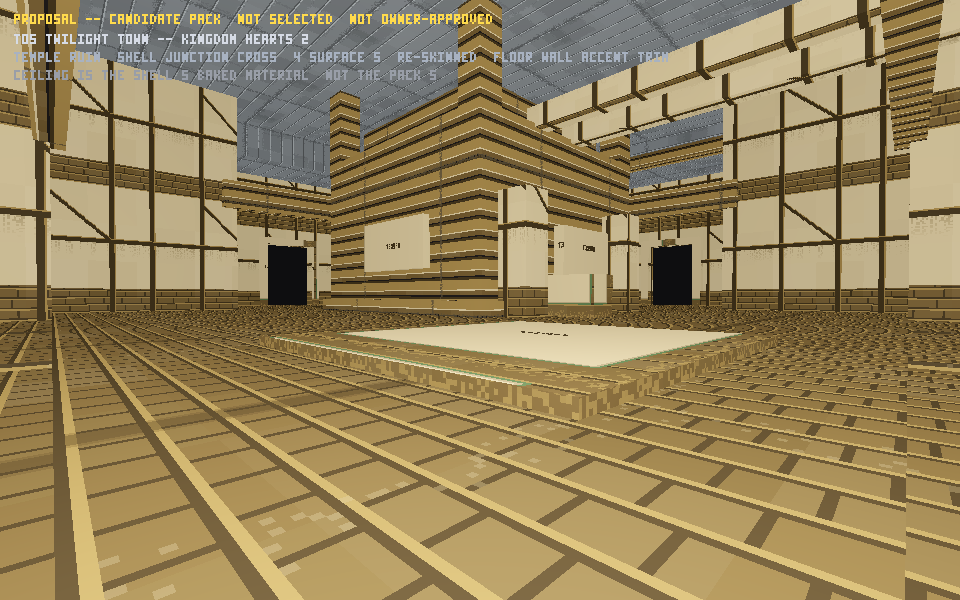
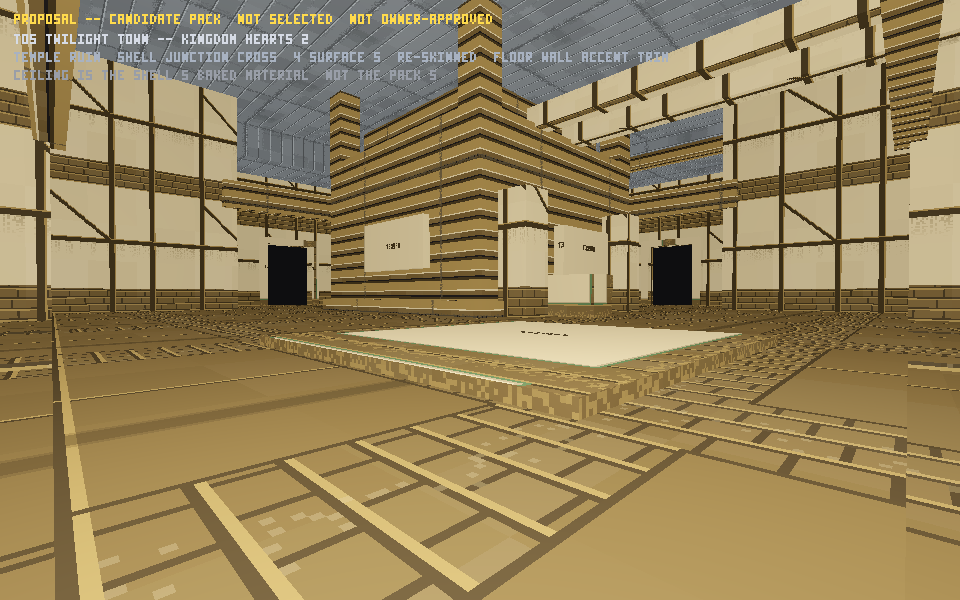
Rulings of 2026-09-25 recorded; T05's floor calmed; gate output kept
T05's floor was 0.26 m setts across a whole 4 m tile, under a wall that
is already doing the talking. Per the ruling it is four large flags in
the field with the setts kept where a paver would actually use them --
the border band and the gutter. T01 stands as authored: the ruling is
explicit that it may remain a near relative of `temple_ruin` and that
difference is not to be manufactured for its own sake.

Every ruling is written where the question was asked rather than only
in the frontier: the enemy decision sheet now carries its own verdicts
inline, the pack README records all three, and the interface README
records the bevel decision and that the panel/grid language is accepted
as STRUCTURAL rather than finished.

And the transient: gate output went to /dev/null, so the one-off
font-gate failure left nothing to investigate. Every named engine gate
writes to a log now, kept only when it fails, and the suite prints
where -- "a clean rerun is not an explanation for a failure you did not
look at." The 5c coverage check still requires a real CALL and not a
mention: a path followed by a redirect, where a path inside a `fail`
message is followed by a quote.

Claude-Session: https://claude.ai/code/session_01CHBZHyc8nG44Fe2niaqXbi

diff --git a/tools/blender/packmaterials.py b/tools/blender/packmaterials.py
@@ -216,15 +216,47 @@ def _town_wall(canvas, surface, theme):
 
 
 def _town_floor(canvas, surface, theme):
+    """Paved square: large flags, with setts kept for the borders.
+
+    OWNER RULING, 2026-09-25: *"Calm T05's floor: prefer larger floor
+    fields/flags, retaining the small setts primarily at edges, borders
+    or transitions. The wall treatment already supplies substantial pack
+    identity and the current full-floor pattern is unnecessarily busy."*
+
+    The first cut laid 0.26 m setts across the whole 4 m tile, which is
+    a great deal of line under a wall that is already doing the talking.
+    Setts survive where a paver would actually use them -- the border
+    band and the gutter -- and the middle is four big flags.
+    """
     base, accent, trim = mat.ramps(theme)
     canvas.rect(0, 0, surface.size, surface.size, trim[1])
-    paintkit.tonal_drift(canvas, surface, amount=0.06, cell_metres=0.8)
-    # Setts: small, staggered, regular. A town square is paved by
-    # somebody who was paid by the square metre.
+    paintkit.tonal_drift(canvas, surface, amount=0.06, cell_metres=0.9)
+
+    # Setts over everything first, then the middle taken back. Painting
+    # the band directly would mean re-deriving `coursed`'s stagger by
+    # hand for four strips, and a border whose bond disagrees with
+    # itself at the corners is worse than no border.
     mat.coursed(canvas, surface, trim[0], trim[2], 0.26, 0.26,
                 stagger=0.5, tag="sett")
-    # A gutter, off centre, because drainage follows the fall of the
-    # street and not the middle of the texture.
+    band = surface.texels(0.45)
+    inner = surface.size - band * 2
+    canvas.rect(band, band, inner, inner, trim[1])
+    paintkit.tonal_drift(canvas, surface, amount=0.04, cell_metres=1.4)
+
+    # Four flags in the field, and the joint between them. A flag is
+    # read by its JOINT, so the joint gets a dark line and a lit lip --
+    # the same one-shadow-one-lip grammar the rest of the game paves in.
+    mid = surface.size // 2
+    canvas.hline(mid, band, surface.size - band - 1, trim[0])
+    canvas.vline(mid, band, surface.size - band - 1, trim[0])
+    if mid + 1 < surface.size - band:
+        canvas.hline(mid + 1, band, surface.size - band - 1, trim[2])
+        canvas.vline(mid + 1, band, surface.size - band - 1, trim[2])
+    canvas.outline(band, band, inner, inner, trim[0])
+
+    # The gutter, off centre, because drainage follows the fall of the
+    # street and not the middle of the texture. It cuts the flags, which
+    # is what a channel cut into paving does.
     gx = int(surface.size * 0.30)
     half = max(1, surface.texels(0.10))
     for y in range(surface.size):

diff --git a/docs/art/review/enemies_2026-09-25/DECISIONS_FOR_OWNER.md b/docs/art/review/enemies_2026-09-25/DECISIONS_FOR_OWNER.md
@@ -2,10 +2,11 @@
 
 *Arty*
 
-**Nothing in this file has been applied.** Owner ruling, 2026-09-25:
-*"Do not silently apply the four proposed enemy art changes. Package
-them as a compact owner review set."* The priority order below is yours,
-not mine.
+**RULED 2026-09-25. The decisions are recorded inline below.**
+
+The sheet was written under *"Do not silently apply the four proposed
+enemy art changes. Package them as a compact owner review set."* It is
+kept as the record of what was asked and what came back.
 
 Every number comes from `README.md` in this folder and regenerates with
 `tools/content/run_enemy_silhouettes.sh` +
@@ -63,7 +64,16 @@ rely on body value at all.
   say *"you can use this"* about something that wants to hurt you, so
   this option needs its own colour decision before it can be costed.
 
-> **Decision:** 1A / 1B / 1C / not now →
+> **RULED: 1A**, with a condition — *"Develop a raised enemy-body value
+> ramp, but do not land it from the concrete-room result alone. Render
+> and measure the candidate against all six theme families first and
+> make sure it does not simply move the collision into a pale
+> environment."*
+>
+> **And a standing prohibition:** *"Do not use `signal` as an enemy
+> rim/readability colour."* That closes 1C's colour question in the
+> only direction it could have gone — `signal` means "you can use
+> this", and an enemy is not that.
 
 ---
 
@@ -97,7 +107,9 @@ Head-on it is a brute at 82% overlap.
 * **Options:** widen the shield plate past the body, notch its top
   edge, or set it forward so it reads as a separate plane.
 
-> **Decision:** 2A and 2B / one of them / neither →
+> **RULED: both 2A and 2B**, *after* the Tier-1 candidate is settled,
+> and *"keep these within their existing declared envelopes where
+> possible."* Not started: Tier 1 comes first by the owner's ordering.
 
 ---
 
@@ -117,7 +129,9 @@ nothing to do.
 `docs/art-requests/2026-09-25-brute-visible-body-vs-collider.md`. If
 they rule that the visible body moves, it is a small change on my side.
 
-> **Decision:** 3A / 3B / defer both →
+> **RULED: 3A deferred.** 3B stays with Production — the 6.7 cm
+> measurement is accepted as evidence, and which contract moves is
+> theirs to decide.
 
 ---
 

diff --git a/docs/art/ART_FRONTIER.md b/docs/art/ART_FRONTIER.md
@@ -2363,6 +2363,34 @@ all four touch art already in the tree: a non-width tell for `ranged`, a
 head-on tell for `bulwark`, a family-wide value lift (palette-level, the
 owner's call), and then a re-measure with motion.
 
+### Rulings, 2026-09-25 — what is decided and what is next
+
+**Enemies.** Tier 1 is **1A**: a raised enemy-body value ramp — but it
+may **not** land from the concrete-room result alone. The candidate is
+rendered and measured against **all six theme families** first, to
+prove it does not just move the collision into a pale environment.
+`signal` is **not** available as an enemy rim or readability colour.
+2A and 2B (a non-width tell for `ranged`, a head-on shield tell for
+`bulwark`) follow **after** Tier 1 settles, within their existing
+declared envelopes where possible. 3A deferred. 3B is Production's.
+
+**Interface.** The 1 px bevel stays; the minimum-cell/border system is
+not enlarged for isolated readability. The panel/grid language is
+accepted as the **structural** interface language — not a declaration
+that the visual identity is finished. `dead`-chrome stays provisional,
+and the locked/spent collision stays on the record for when state art
+arrives.
+
+**Packs.** T01 accepted as a candidate and allowed to stay a near
+relative of `temple_ruin` — difference is not to be manufactured for
+its own sake. T05's sign accent accepted; its floor calmed to large
+flags with setts kept for borders and the gutter.
+
+**One open transient.** A single font-gate failure did not reproduce
+and has no explanation. Gate output is now KEPT on failure
+(`$GATELOG`), because a clean rerun is not an explanation for a failure
+nobody looked at.
+
 ### Next
 
 C stays blocked on the revised machinery/puzzle bounds; E stays reserve.

diff --git a/docs/art/review/packs_2026-09-24/README.md b/docs/art/review/packs_2026-09-24/README.md
@@ -53,6 +53,22 @@ Nothing here puts a pack on the ladder. `candidate` means "rows exist
 in the art lane's exported descriptor", which is the whole of what this
 lane may grant. `THEME_PACK_STATUS` is Production's and stays empty.
 
+## RULED, 2026-09-25
+
+* **T01 accepted for candidate status.** *"It is allowed to remain a
+  closer relative of `temple_ruin`; do not manufacture difference for
+  its own sake."* So item 2 below is answered and the wall stands.
+* **T05's revised sign accent accepted.** Item 1 is closed: the board
+  is timber with a cream field, the green cut to a keyline, and
+  stencilled lettering.
+* **T05's floor calmed**, per item 3: large flags in the field with the
+  setts kept for the border band and the gutter. The wall was already
+  carrying the pack's identity and the full-sett floor was competing
+  with it.
+
+The three items below are kept as written, because what was asked is
+worth reading beside what was decided.
+
 ## Three things worth your eye
 
 1. **T05's accent is too close to the family's.** Its painted sign

diff --git a/docs/art/review/interface_2026-09-24/README.md b/docs/art/review/interface_2026-09-24/README.md
@@ -64,7 +64,16 @@ that collision is where it will show up, and the answer will probably
 be a value band rather than a new family: chrome in `dead`'s dark half,
 item state in its light half.
 
-**2. One pixel of bevel.** On a dark background in
+**2. One pixel of bevel. — RULED, 2026-09-25: keep it.**
+
+> *"The distinction is sufficient in composed context; do not enlarge
+> the entire minimum-cell/border system for isolated readability."*
+
+Also ruled: the current panel/grid language is accepted as **the
+structural interface language** — which is not a statement that the
+visual identity is finished. The original note is kept below.
+
+On a dark background in
 `PANELS_at_four_sizes`, `panel` and `well` take a moment to tell apart —
 the bevel is 1 px, though it carries 0.341 L\* of separation. In context,
 in `FACE_grid_and_selection`, wells sitting on a panel read as recesses
